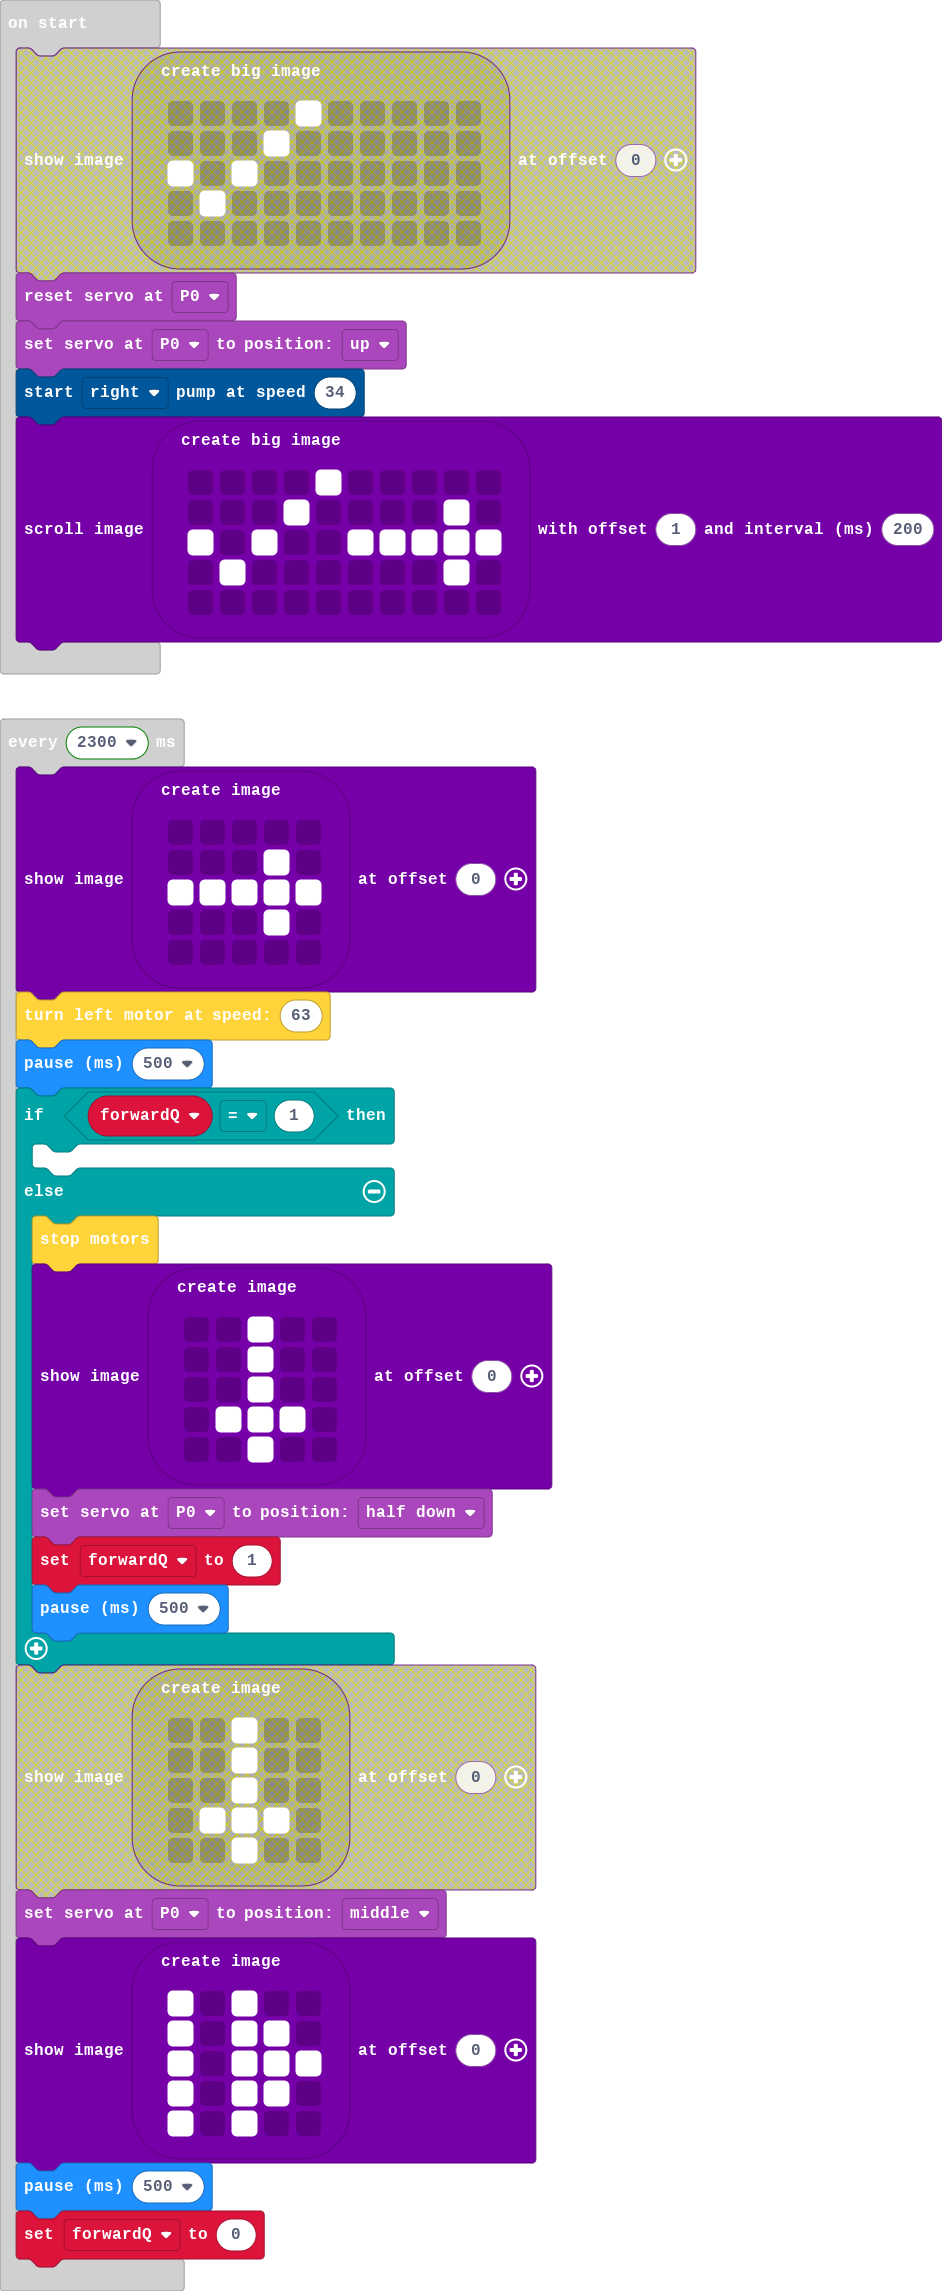
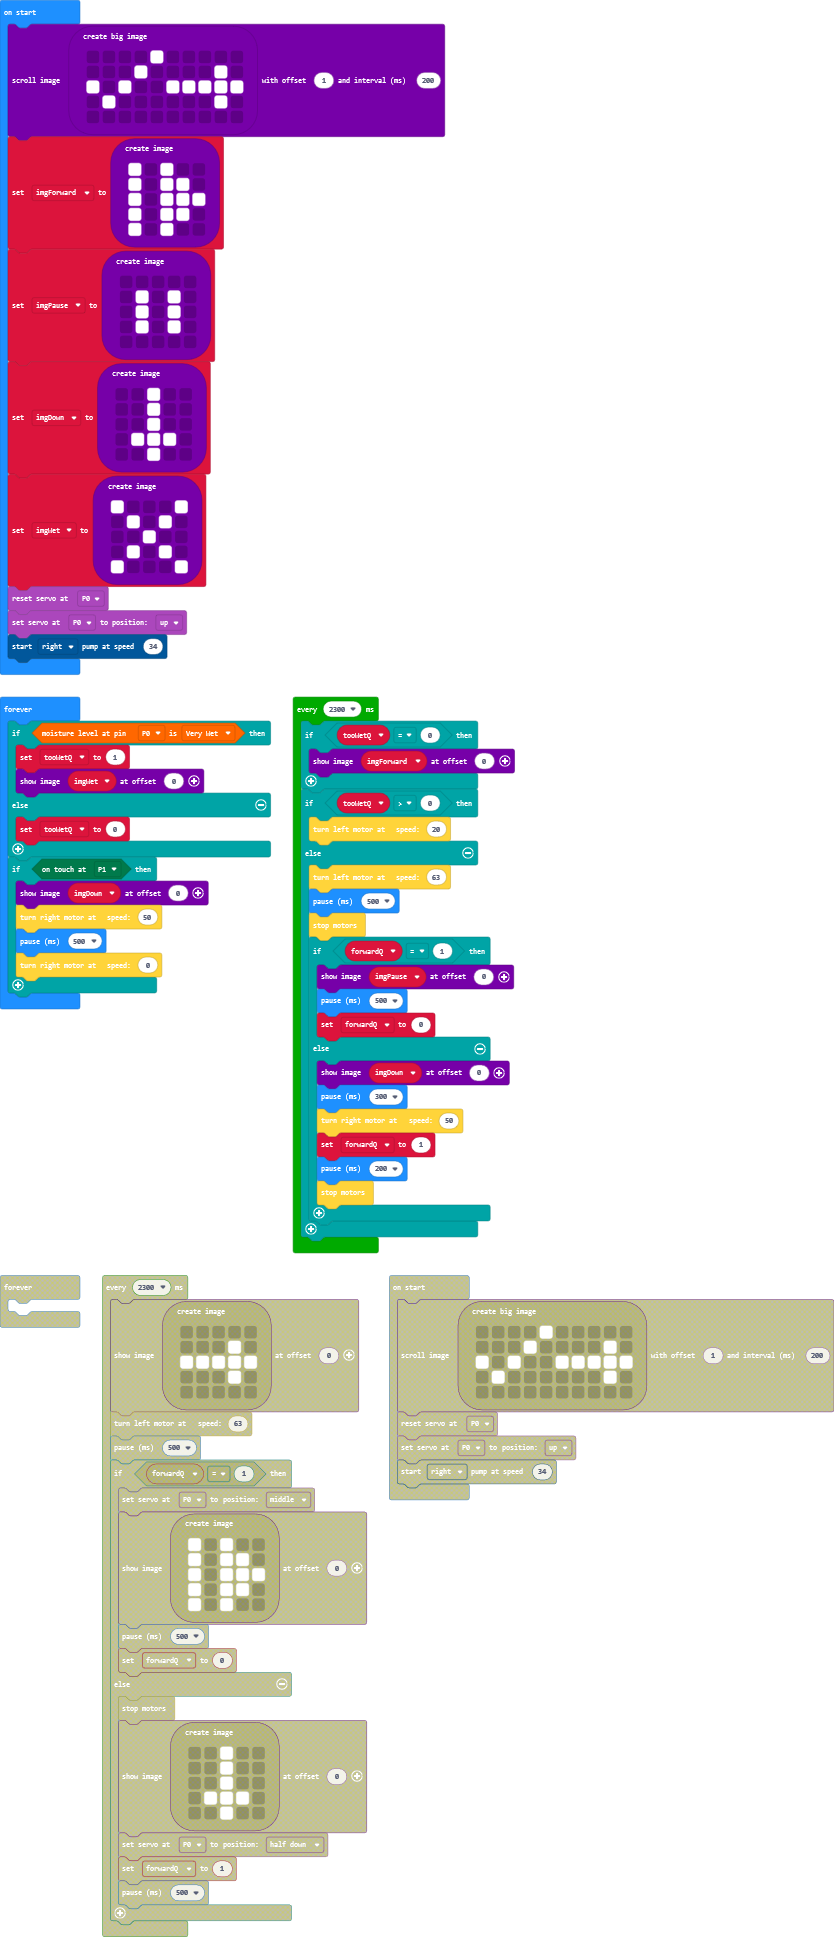
Update pxt.json, main.blocks, main.ts

diff --git a/main.ts b/main.ts
@@ -2,6 +2,7 @@ input.onButtonPressed(Button.A, function () {
     cakLandServos.resetServos(cakLandServos.ServoPin.P0)
 })
 let forwardQ = 0
+let tooWetQ = 0
 images.createBigImage(`
     . . . . # . . . . .
     . . . # . . . . # .
@@ -9,44 +10,72 @@ images.createBigImage(`
     . # . . . . . . # .
     . . . . . . . . . .
     `).scrollImage(1, 200)
+let imgForward = images.createImage(`
+    # . # . .
+    # . # # .
+    # . # # #
+    # . # # .
+    # . # . .
+    `)
+let imgPause = images.createImage(`
+    . . . . .
+    . # . # .
+    . # . # .
+    . # . # .
+    . . . . .
+    `)
+let imgDown = images.createImage(`
+    . . # . .
+    . . # . .
+    . . # . .
+    . # # # .
+    . . # . .
+    `)
+let imgWet = images.createImage(`
+    # . . . #
+    . # . # .
+    . . # . .
+    . # . # .
+    # . . . #
+    `)
 cakLandServos.resetServos(cakLandServos.ServoPin.P0)
 cakLandServos.setServoPosition(cakLandServos.ServoPin.P0, cakLandServos.Position.UP)
 cakLandPump.pumpStart(cakLand.BoardSide.RIGHT, 34)
 basic.forever(function () {
-	
+    if (cakLandSoil.ifMoisture(cakLandSoil.SoilPin.P0, cakLandSoil.Mlevel.VERY_WET)) {
+        tooWetQ = 1
+        imgWet.showImage(0)
+    } else {
+        tooWetQ = 0
+    }
+    if (cakLandTouch.getTouch(cakLandTouch.TouchPin.P1)) {
+        imgDown.showImage(0)
+        cakLandMotor.turnRight(50)
+        basic.pause(500)
+        cakLandMotor.turnRight(0)
+    }
 })
 loops.everyInterval(2300, function () {
-    images.createImage(`
-        . . . . .
-        . . . # .
-        # # # # #
-        . . . # .
-        . . . . .
-        `).showImage(0)
-    cakLandMotor.turnLeft(63)
-    basic.pause(500)
-    if (forwardQ == 1) {
-        cakLandServos.setServoPosition(cakLandServos.ServoPin.P0, cakLandServos.Position.MIDDLE)
-        images.createImage(`
-            # . # . .
-            # . # # .
-            # . # # #
-            # . # # .
-            # . # . .
-            `).showImage(0)
-        basic.pause(500)
-        forwardQ = 0
+    if (tooWetQ == 0) {
+        imgForward.showImage(0)
+    }
+    if (tooWetQ > 0) {
+        cakLandMotor.turnLeft(20)
     } else {
-        cakLandMotor.stop()
-        images.createImage(`
-            . . # . .
-            . . # . .
-            . . # . .
-            . # # # .
-            . . # . .
-            `).showImage(0)
-        cakLandServos.setServoPosition(cakLandServos.ServoPin.P0, cakLandServos.Position.HALF_DOWN)
-        forwardQ = 1
+        cakLandMotor.turnLeft(63)
         basic.pause(500)
+        cakLandMotor.stop()
+        if (forwardQ == 1) {
+            imgPause.showImage(0)
+            basic.pause(500)
+            forwardQ = 0
+        } else {
+            imgDown.showImage(0)
+            basic.pause(300)
+            cakLandMotor.turnRight(50)
+            forwardQ = 1
+            basic.pause(200)
+            cakLandMotor.stop()
+        }
     }
 })
